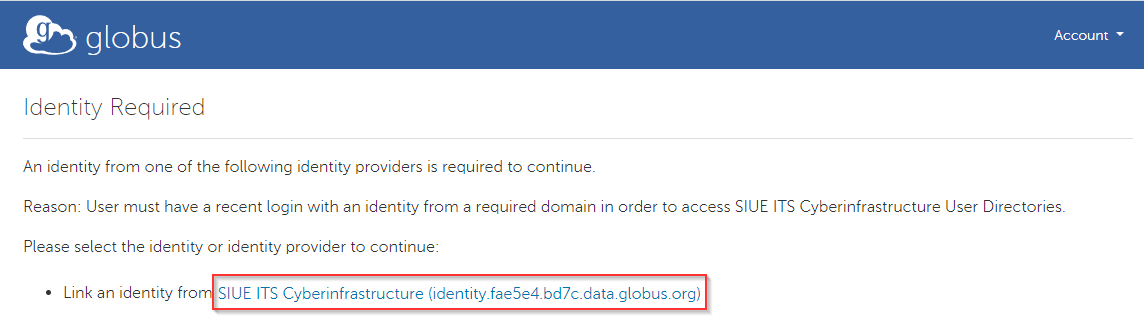
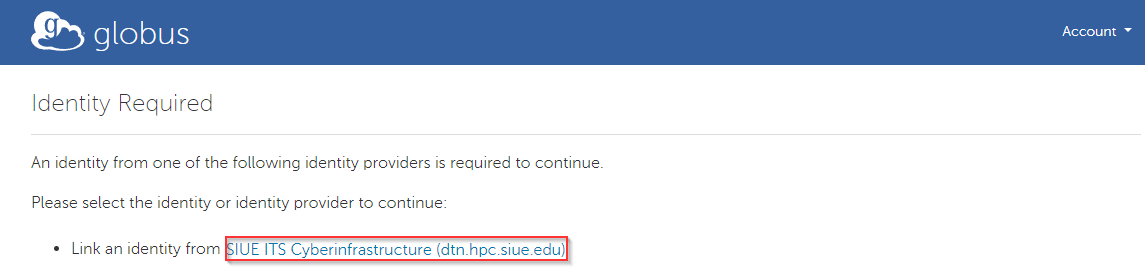
modified globus stuff to match new oidc

diff --git a/docs/user_guides/data_management/transfer_files_globus.md b/docs/user_guides/data_management/transfer_files_globus.md
@@ -165,7 +165,7 @@ The File Manager page is the page you'll use for your file transfers, and it has
 
 In the **Collection** field at the top of either column, you can search for**SIUE ITS Cyberinfrastructure** to access your SIUE directories. By default, you will be in your `/home` directory. You can navigate to other directories (`/project` and `/bulk`) by typing their paths in the **Path** field, or you can enter `/` to view all directories.
 
-?> Tip: Your project directory path is of the form `/project/<PI_username>_<id>`.
+?> Tip: Your project and bulk directory paths are of the form `/project/<PI_username>_<id>` and `/bulk/<PI_username>_<id>`.
 
 In the other column, you can click the Collection field and navigate to the **Your Collections** tab, where you'll find your personal computer's Collection you set up.
 
